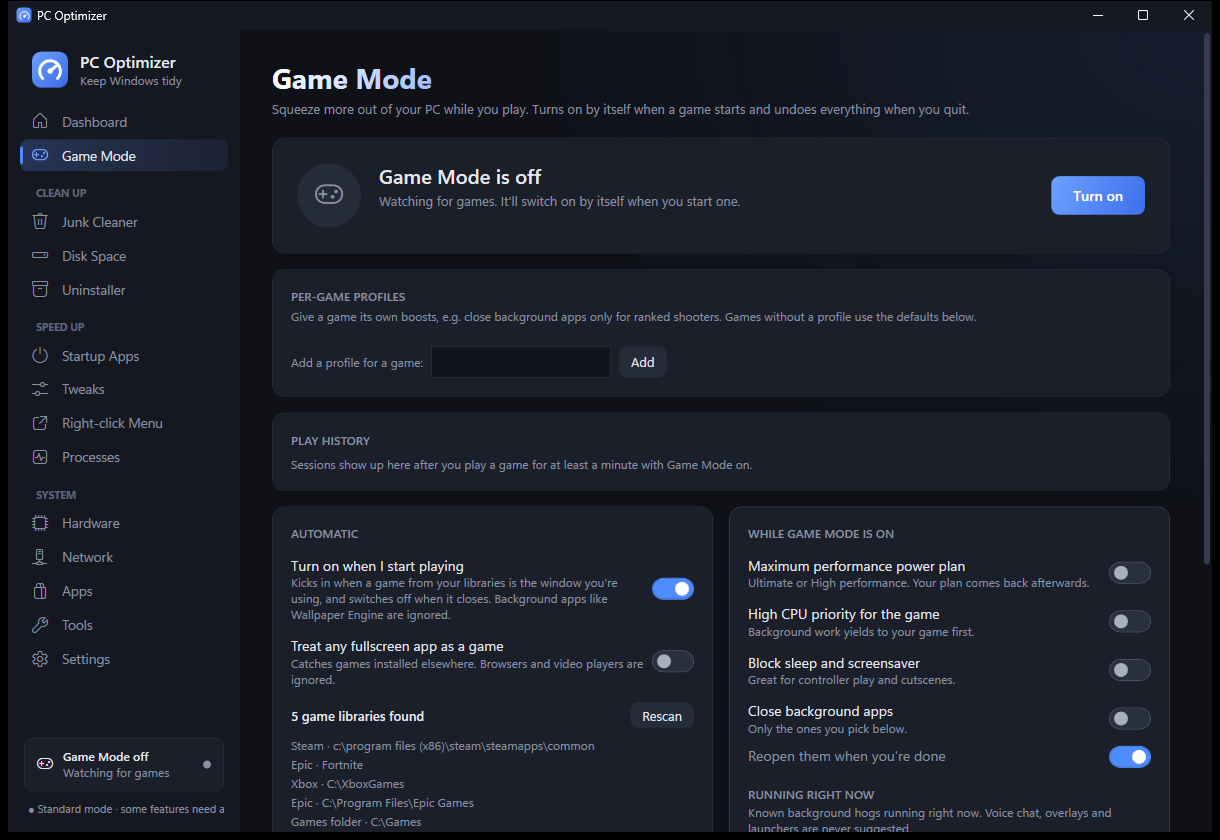
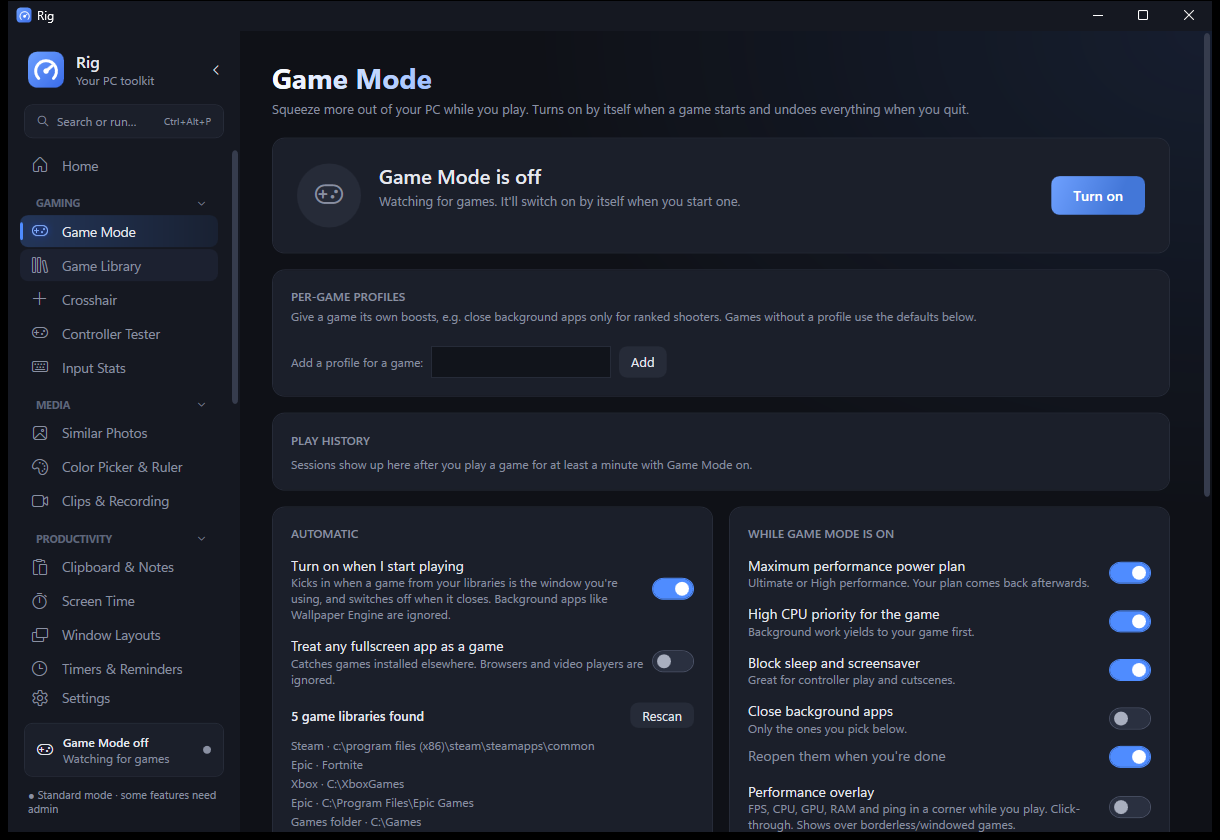
Rig 2.0.0-beta.1: README, release notes, new screenshots

diff --git a/README.md b/README.md
@@ -1,115 +1,104 @@
-# PC Optimizer
+# Rig
 
-A native Windows desktop app (C# / WPF, .NET 10, no third-party packages). Runs in the notification
-area so Game Mode can kick in automatically. Inspired by Chris Titus Tech's WinUtil, game boosters
-like Razer Cortex and Process Lasso, and Windows' own maintenance tools.
+Your PC toolkit: a native Windows desktop app (C# / WPF, .NET 10, no third-party packages) that boosts games,
+keeps Windows tidy, and handles the everyday stuff, from clipboard history and timers to screen recording,
+batch renaming and a colour picker. Formerly **PC Optimizer**. It lives in the notification area, so Game Mode
+and your hotkeys are always ready.
 
-![Dashboard](docs/screenshots/dashboard.png)
+![Home](docs/screenshots/home.png)
 
 | | |
 |---|---|
-| ![Game Mode](docs/screenshots/game-mode.png) | ![Disk Space](docs/screenshots/disk-space.png) |
-| **Game Mode**: boosts your PC while you play, then undoes everything | **Disk Space**: WizTree-style tree and treemap, Del to recycle |
-| ![Junk Cleaner](docs/screenshots/junk-cleaner.png) | ![Hardware](docs/screenshots/hardware.png) |
-| **Junk Cleaner**: caches, temp files, automatic cleaning | **Hardware**: specs, drive health, benchmarks |
-| ![Tweaks](docs/screenshots/tweaks.png) | |
-| **Tweaks**: reversible gaming, privacy and Windows tweaks | |
+| ![Light theme with a purple accent](docs/screenshots/home-light.png) | ![Game Mode](docs/screenshots/game-mode.png) |
+| **Home**: your cards, in dark or light with your accent colour | **Game Mode**: boosts your PC while you play, then undoes everything |
+| ![Timers](docs/screenshots/timers.png) | ![Settings](docs/screenshots/settings.png) |
+| **Timers & Reminders**, also from the command palette | **Settings**: theme, accent and switching modules on or off |
 
 ## Download
 
-Grab an EXE from the [latest release](../../releases/latest), for 64-bit Windows 10 and 11:
+Grab an EXE from the [releases](../../releases), for 64-bit Windows 10 and 11:
 
-- **`PCOptimizer.exe`** (~72 MB): everything built in. Pick this if you're not sure.
-- **`PCOptimizer-lite.exe`** (under 1 MB): needs the [.NET 10 Desktop Runtime](https://dotnet.microsoft.com/download/dotnet/10.0) installed.
+- **`Rig.exe`** (~75 MB): everything built in. Pick this if you're not sure.
+- **`Rig-lite.exe`** (about 1 MB): needs the [.NET 10 Desktop Runtime](https://dotnet.microsoft.com/download/dotnet/10.0) installed.
 
 Run it and a short welcome sets things up and offers to install it (no admin needed: it goes in your user
 folder, with a Start menu shortcut and an entry in Windows' "Installed apps" to uninstall it). Or pick
 "Portable" and keep running the EXE from wherever it is.
 
 The app updates itself: when a new release is out, Settings → Updates (or the sidebar) offers a one-click update.
+Switch on **Beta updates** to get new versions early.
+
+**Coming from PC Optimizer?** It updates itself into Rig. The first start after the update moves the program to
+its new folder and renames the shortcuts, the "Installed apps" entry, start with Windows and the maintenance task;
+your settings, games, play history and everything else come along.
 
 The EXE isn't code-signed, so the first time you run it Windows SmartScreen may say
 "Windows protected your PC". Click **More info → Run anyway**.
 
-## Features
+## What's inside
 
-- **Dashboard** – your pinned tools (right-click any sidebar page to pin it), a health score (0–100) with one-click
-  fixes, live CPU/memory charts, drives.
-- **Game Mode** – toggle it yourself (page, sidebar chip or tray menu) or let it turn on automatically.
-  - Detects games only when one is the window you're using and it lives in a game library
-    (Steam incl. all library folders, Epic, GOG, Ubisoft, EA, Riot, Xbox, `X:\Games`) or your own list.
-    Background apps such as Wallpaper Engine never count, and known non-game Steam apps (Lossless Scaling,
-    SteamVR, Soundpad, Proton…) are filtered out. "Not a game" ignores anything that slips through.
-  - Boosts (each optional): Ultimate/High performance power plan, high CPU priority for the game,
-    block sleep/screensaver, close background apps and reopen them afterwards.
-  - Apps to close: known background hogs that are actually running (sync clients, Teams, torrent clients…)
-    with a reason for each, plus one-click adding of any other open app.
-  - Everything is undone when the game closes, including after a crash (the old power plan is restored on next launch).
-  - Live CPU / GPU / game RAM while you play, and a play history: time per game plus average and peak load per session.
-  - Per-game profiles: different boosts for different games, including their own resolution and refresh rate.
-  - Optional performance overlay: a click-through CPU / GPU / RAM / ping readout in a corner of the screen.
-  - Windows notifications when Game Mode turns on or off.
-  - Optional FPS counter (with 1% lows) in the overlay for DirectX games, in administrator mode.
-  - Session recap card when a game closes: playtime, load, game RAM, clips captured, and FPS in admin mode.
-- **Game Library** – every installed Steam, Epic and GOG game with cover art and playtime; click to play,
-  optionally with Game Mode switched on. NEW badges and patch notes from Steam developers, plus free-to-keep
-  games on Epic, Steam, GOG and others (via GamerPower) with optional notifications.
-- **Crosshair** – a click-through custom crosshair (5 styles, colour, size, gap, outline) that turns on in the
-  games you pick and off when you leave them; Ctrl+Shift+F8 toggles it.
-- **Controller Tester** – live buttons, sticks and triggers for XInput controllers, a stick-drift check and rumble tests.
-- **Clips & Screenshots** – Ctrl+Shift+F9 (changeable) saves the last 30 seconds (via Windows Game Bar's background
-  recording), Ctrl+Shift+F10 saves a screenshot named after the game; a gallery of everything captured.
-- **Screen recorder** – Ctrl+Shift+F11 (changeable): drag out an area (or click for a whole screen) and record it as
-  an MP4 (Windows' H.264 encoder, GPU-accelerated when available) or a small GIF (up to 60 s). Video only.
-- **Clipboard & Notes** – Ctrl+Alt+V opens your last 50 copies anywhere (memory only; password-manager copies
-  are skipped), plus quick notes that save as you type.
-- **Command palette** – Ctrl+Alt+P (or Ctrl+Alt+Space when free) from anywhere: jump to pages, find any setting,
-  run actions, restore window layouts, control music, launch games and apps, end stuck windows, quick maths.
-- **Window Layouts** – save where your windows are (Gaming, Study…) and put them back in one click.
-- **Now playing** – a sidebar mini player for Spotify, Apple Music, YouTube and more, with media controls.
-- **Screen Time** – time per app per day and a 7-day chart, counting only active use, with optional break reminders.
-- **Input Stats** – optional key, click, scroll and cursor-travel counts with keyboard and mouse heatmaps and per-game
-  APM and most-used keys. Counts only, never what you type; stays on your PC.
-- **Downloads** – sorts loose files in Downloads into folders by type (with undo and optional auto-sorting) and
-  lists old installers to clear out.
-- **Junk Cleaner** – temp files, browser caches, Recycle Bin, thumbnails, shader cache, crash dumps.
-  Optional automatic cleaning (daily / weekly / monthly), skipped while you're gaming. Browser privacy:
-  cookies and history per browser (never passwords, autofill or bookmarks).
-- **Disk Space** – WizTree / WinDirStat style: a size-sorted folder tree with "% of parent", a colour treemap
-  you can click to jump to a folder, a largest-files list, a duplicate file finder, and a "Tidy up" tab for
-  empty folders and broken shortcuts. Select anything and press **Del** to send it to the Recycle Bin
-  (Windows and program folders are protected).
-- **Network** – live ping graph to any server with jitter and packet loss, DNS speed test across six
-  public providers with one-click switching (and back), Cloudflare download speed test. VPN-aware.
-- **Hardware** – full specs (CPU, RAM sticks and speed, GPU and VRAM, motherboard, BIOS, Windows), drive
-  health, and CPU / memory / unbuffered disk benchmarks with a history to compare before and after changes.
-- **Startup Apps** – icons and publishers; reversible enable/disable (same flags as Task Manager), plus
-  the scheduled tasks that launch at sign-in, which Task Manager doesn't show. Each item's impact
-  (memory and average CPU) is measured so you can see what's worth turning off.
-- **Right-click Menu** – switch off the clutter apps add to Explorer's context menu, reversibly.
-- **Processes** – live CPU/memory, grouped by app, End task with critical processes protected.
-- **Tweaks** – 24 reversible gaming, privacy and Explorer tweaks showing their real current state,
-  "Apply recommended", and restore point creation.
-- **Apps** – winget-powered: see and install updates for everything, or batch-install popular apps.
-- **Uninstaller** – every installed program with icon, size and install date; search, tick several and
-  uninstall them in one go with each program's own uninstaller. Plus removable Windows extras (Clipchamp, News, Solitaire…).
-- **Tools** – graphics driver check (version, age, one click to AMD / NVIDIA / Intel downloads),
-  pause Windows Update for 1–5 weeks, a power timer (shut down / restart / sleep after a delay or when downloads
-  finish), power plans
-  (+ add Ultimate Performance), flush DNS, restart Explorer, repair Windows (DISM/SFC, network reset,
-  Windows Update fix, chkdsk), shortcuts to Windows tools. Maintenance night: a weekly scheduled clean
-  and app-update check that catches up if the PC was off, and skips itself while you're gaming.
-- **Security** – Windows Defender status, quick / full scans, definition updates, and game-folder exclusions (admin).
-- **Settings** – start with Windows (in the tray), close to tray, notifications, automatic updates, and
-  backup & share: export your whole setup to one file (optionally with your play history, screen time, notes and
-  layouts) and import it on another PC or a friend's.
+Tools are grouped into five categories. Any tool you don't use can be switched off in Settings → Modules: it
+leaves the sidebar and stops its background work. Pages only load the first time you open them.
+
+**Home** – a grid of cards you choose and arrange (Customize): pinned tools (right-click any sidebar page to pin
+it), PC health with one-click fixes, live CPU and memory, system info, Game Mode, now playing, today's screen time
+and input, timers, the power timer, free games and storage.
+
+**Command palette** – Ctrl+Alt+P (or Ctrl+Alt+Space when free) from anywhere: jump to any page or setting, run
+actions, launch games and apps, end stuck windows, restore window layouts, control music, and quick answers:
+maths, units (`5 ft in cm`), currency (`100 usd to eur`), emoji (`:fire`), time zones (`time in tokyo`) and
+reminders (`remind me in 20 min to stretch`, `timer 25m focus`).
+
+### Gaming
+- **Game Mode** – turns on when a game from your libraries (Steam, Epic, GOG, Ubisoft, EA, Riot, Xbox, your own
+  list) is the window you're using. Optional boosts: top power plan, high CPU priority, no sleep, closing background
+  apps; per-game profiles, including their own resolution and refresh rate. Everything is undone when the game
+  closes, even after a crash. Performance overlay with FPS (admin) and a recap card after each session.
+- **Game Library** – every installed Steam, Epic and GOG game with covers and playtime, patch notes, and
+  free-to-keep games with optional alerts.
+- **Crosshair** – a click-through custom crosshair that turns on in the games you pick (Ctrl+Shift+F8).
+- **Controller Tester** – buttons, sticks, triggers, drift check and rumble for XInput controllers.
+- **Input Stats** – optional key, click, scroll and cursor-travel counts with keyboard and mouse heatmaps and
+  per-game APM. Counts only, never what you type.
+
+### Media
+- **Similar Photos** – finds near-duplicate photos (resized or re-saved copies too), keeps the best of each and
+  recycles the rest.
+- **Color Picker & Ruler** – Ctrl+Shift+F7 freezes the screen with a magnifier; click a pixel and its HEX is
+  copied (RGB and HSL too). Drag to measure anything in pixels.
+- **Clips & Recording** – save the last 30 seconds (Windows Game Bar), screenshots named after the game, and screen
+  recording of any area to MP4 or GIF (Ctrl+Shift+F9 / F10 / F11, all changeable).
+
+### Productivity
+- **Clipboard & Notes** – Ctrl+Alt+V opens your last 50 copies anywhere; quick notes that save as you type.
+- **Screen Time** – time per app per day with optional break reminders.
+- **Window Layouts** – save where your windows are and put them back in one click.
+- **Timers & Reminders** – countdowns, reminders at a time or after a while (kept across restarts) and a stopwatch.
+- **Now playing** – a sidebar mini player for Spotify, Apple Music, YouTube and more.
+
+### Files
+- **Downloads** – sorts loose downloads into folders (with undo and optional auto-sorting) and finds old installers.
+- **Disk Space** – WizTree-style folder tree and treemap, largest files, duplicates and a tidy-up tab.
+- **Junk Cleaner** – temp files, caches, Recycle Bin, shader cache, crash dumps; optional automatic cleaning.
+- **Batch Rename** – find and replace, numbering, prefixes, case, with a live preview and undo.
+- **Uninstaller** – remove several programs in one go, plus removable Windows extras.
+
+### System
+- **Startup Apps**, **Processes**, **Tweaks** (reversible), **Right-click Menu**, **Apps** (winget installs and
+  updates), **Hardware** (specs, drive health, benchmarks), **Network** (ping, DNS switcher, speed test),
+  **Security** (Defender) and **Tools** (driver check, Windows Update pause, repairs, power timer, maintenance night).
+
+### Settings
+Start with Windows, close to tray, notifications, now playing, **dark or light theme with six accent colours**,
+**modules**, updates (with a beta channel), and backup & share: one file with your setup, optionally with your
+personal data, to move to another PC or share with a friend.
 
 Deliberately left out: "RAM cleaners" (trimming other apps' memory just makes them page back in from disk)
 and registry cleaners (no measurable benefit, real risk).
 
 ## Build and run
 
-Needs the [.NET 10 SDK](https://dotnet.microsoft.com/download). From the `PCOptimizer` folder:
+Needs the [.NET 10 SDK](https://dotnet.microsoft.com/download). From the `Rig` folder:
 
 ```
 dotnet run -c Release
@@ -122,14 +111,13 @@ dotnet publish -c Release -r win-x64 --self-contained true -p:PublishSingleFile=
 dotnet publish -c Release -r win-x64 --self-contained false -p:PublishSingleFile=true -p:DebugType=none -o ..\Release\lite
 ```
 
-Then rename `Release\lite\PCOptimizer.exe` to `PCOptimizer-lite.exe` when attaching it to a release.
-The updater matches on those two asset names.
+Releasing is automated: bump `<Version>` in `Rig/Rig.csproj`, optionally add `docs/release-notes/vX.Y.Z.md`,
+then push a `vX.Y.Z` tag. GitHub Actions builds both EXEs (also published as `PCOptimizer.exe` and
+`PCOptimizer-lite.exe`, the names PC Optimizer 1.x updates from) and publishes the release. A tag with a suffix,
+like `v2.0.0-beta.1`, becomes a pre-release that only beta-channel users are offered. Every push is build-checked.
 
-Releasing is automated: bump `<Version>` in `PCOptimizer.csproj`, optionally add `docs/release-notes/vX.Y.Z.md`,
-then push a `vX.Y.Z` tag. GitHub Actions builds both EXEs and publishes the release. Every push to `main`
-is also build-checked.
+If the app hits an error it shows a report you can copy; logs are in `%AppData%\Rig\logs`.
 
-If the app hits an error it shows a report you can copy; logs are in `%AppData%\PCOptimizer\logs`.
-
-Settings live in `%AppData%\PCOptimizer\settings.json`. Set `PCOPTIMIZER_SETTINGS` to another path to use a
-separate profile (useful for testing).
+Settings live in `%AppData%\Rig\settings.json`. Set `RIG_SETTINGS` to another path to use a separate profile
+(useful for testing), and `RIG_TEST_INSTALL_ROOT` to try installing, migrating and uninstalling in a sandbox
+folder (registry under `HKCU\Software\RigTest`) without touching the real system.

diff --git a/docs/release-notes/v2.0.0-beta.1.md b/docs/release-notes/v2.0.0-beta.1.md
@@ -1,0 +1,37 @@
+## PC Optimizer is now Rig (2.0.0 beta 1)
+
+Rig is the all-in-one version of PC Optimizer: everything it did, plus everyday tools, a new look and a Home you
+arrange yourself. This is a **beta**: it's only offered to people who switch on Settings → Updates → Beta updates
+(or download it from this page). PC Optimizer 1.9 won't update to it until the final 2.0.0.
+
+### New look
+- **Sidebar in five categories**: Gaming, Media, Productivity, Files and System. Fold categories you don't use,
+  or collapse the sidebar to icons.
+- **Light theme and accent colours**: Settings → Appearance (dark stays the default; six accents).
+- **Modules**: switch off any tool in Settings → Modules. It leaves the sidebar and stops its background work.
+  Pages now load the first time you open them, so the app starts lighter.
+
+### Home
+- The Dashboard became **Home**: a grid of cards you choose, move and remove (Customize). Cards for pinned tools,
+  PC health, CPU, memory, system, Game Mode with your last session, now playing, screen time, input, timers, the
+  power timer, free games and storage.
+
+### New tools
+- **Timers & Reminders**: countdowns, reminders at a time or after a while (they survive restarts) and a stopwatch.
+  Also from the palette: "remind me in 20 min to stretch", "timer 25m focus".
+- **Batch Rename**: find and replace, numbering, prefixes and suffixes, case, with a live preview and undo.
+- **Similar Photos**: finds near-duplicate photos, even resized or re-saved copies, keeps the best of each and
+  recycles the rest.
+- **Color Picker & Ruler**: Ctrl+Shift+F7 freezes the screen with a magnifier; click to copy a colour's HEX
+  (RGB and HSL too), or drag to measure in pixels.
+- **Palette quick answers**: units ("5 ft in cm"), currency ("100 usd to eur", European Central Bank rates),
+  emoji (":fire") and time zones ("time in tokyo").
+
+### Moving over from PC Optimizer
+- When PC Optimizer updates itself into Rig, the first start moves the program to its new folder and renames the
+  Start menu and desktop shortcuts, the "Installed apps" entry, start with Windows and the maintenance task.
+  Settings, games, play history, notes and everything else are copied to `%AppData%\Rig`.
+
+### Changes
+- Drop-down lists now match the theme.
+- Updates understand beta versions, and a beta tester is offered the final release when it's out.
